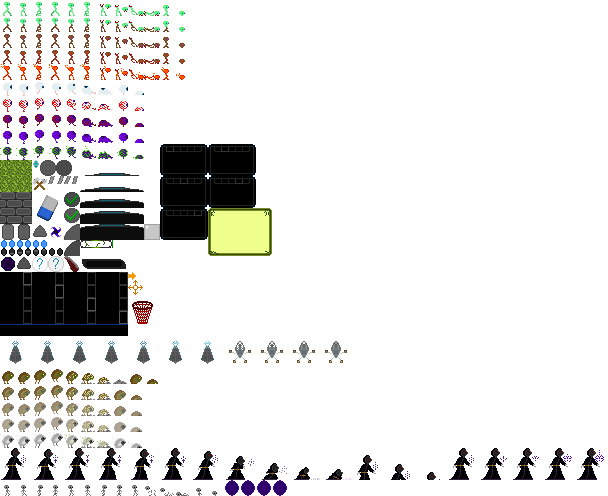
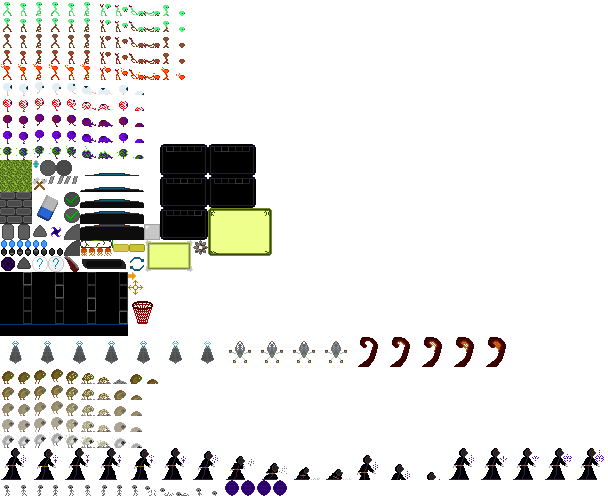
Version 1.0. User is now notified when auth fails and is provided with a button to try again.

Changed region(s): [[0.5938, 0.6653, 0.8438, 0.756], [0.125, 0.4839, 0.3438, 0.5444]]

diff --git a/app/src/main/java/com/brothergamecompany/pixelassault/toweroffence/GameObjects/UserInterface/UIAndTouchListening.java b/app/src/main/java/com/brothergamecompany/pixelassault/toweroffence/GameObjects/UserInterface/UIAndTouchListening.java
@@ -4,6 +4,7 @@ package com.brothergamecompany.pixelassault.toweroffence.GameObjects.UserInterfa
 import android.content.Context;
 
 import com.brothergamecompany.pixelassault.R;
+import com.brothergamecompany.pixelassault.framework.Game;
 import com.brothergamecompany.pixelassault.framework.Input;
 import com.brothergamecompany.pixelassault.framework.gl.Animation;
 import com.brothergamecompany.pixelassault.framework.gl.Camera2D;
@@ -14,6 +15,7 @@ import com.brothergamecompany.pixelassault.framework.impl.GLGraphics;
 import com.brothergamecompany.pixelassault.framework.math.OverlapTester;
 import com.brothergamecompany.pixelassault.framework.math.Rectangle;
 import com.brothergamecompany.pixelassault.framework.math.Vector2;
+import com.brothergamecompany.pixelassault.toweroffence.GameLauncher;
 import com.brothergamecompany.pixelassault.toweroffence.GameObjects.MapBuilder;
 import com.brothergamecompany.pixelassault.toweroffence.GameObjects.World.World;
 import com.brothergamecompany.pixelassault.toweroffence.GameObjects.World.WorldObjects.Monster;
@@ -21,11 +23,14 @@ import com.brothergamecompany.pixelassault.toweroffence.GameObjects.World.WorldR
 import com.brothergamecompany.pixelassault.toweroffence.Other.Assets.Assets;
 import com.brothergamecompany.pixelassault.toweroffence.Other.Font;
 import com.brothergamecompany.pixelassault.toweroffence.Other.Network.Account;
+import com.brothergamecompany.pixelassault.toweroffence.Other.Network.SignIn;
 import com.brothergamecompany.pixelassault.toweroffence.Other.Notifications.NotificationManager;
 
 import java.util.List;
 
 import javax.microedition.khronos.opengles.GL10;
+
+import static com.brothergamecompany.pixelassault.toweroffence.Other.Assets.Assets.font;
 
 /**
  * Created by maxgm_umv4xdu on 07.07.2017.
@@ -63,7 +68,8 @@ public class UIAndTouchListening {
     private final Rectangle shopConsumablesTab;
     private final Rectangle shopDecorationsTab;
     private final Rectangle accountStats;
-    Rectangle shopNextPageTab;
+
+    private Rectangle refreshButtonAuthFailed;
     private final MapBuilder mapBuilder;
     private static boolean spawnButtonPressed = false;
     private static boolean arrowUpButtonPressed = false;
@@ -93,6 +99,7 @@ public class UIAndTouchListening {
         shopConsumablesTab = new Rectangle(258, 279, 102, 147);
         shopDecorationsTab = new Rectangle(258, 132, 102, 147);
         mapBuilderButton = new Rectangle(1140, 0, 140, 140);
+        refreshButtonAuthFailed = new Rectangle(540, 210, 100, 100);
         monsterForButton = new Monster(80, 280, UIData.monsterLevel);
         this.mapBuilder = mapBuilder;
     }
@@ -132,21 +139,21 @@ public class UIAndTouchListening {
     private void drawAccountStatsGameState() {
         drawUsualGameState();
         batcher.drawSprite(640, 360, 640, 480, Assets.accountStatsInfo);
-        Assets.font.drawColoredText(coloredBatcher, (glGame).getResources().getString(R.string.account_stats_header), 490, 530, 0.3f, 0.3f, 0.3f, 1, 22, 28.6f);
-        Assets.font.drawColoredText(coloredBatcher, (glGame).getResources().getString(R.string.account_stats_nickname), 370, 460, 0.3f, 0.3f, 0.3f, 1, 17, 22.1f);
-        Assets.font.drawColoredText(coloredBatcher, Account.nickname, 930 - (Account.nickname.length() * (17 + Font.spaceBetweenLetters)), 460, 0.3f, 0.3f, 0.3f, 1, 17, 22.1f);
+        font.drawColoredText(coloredBatcher, (glGame).getResources().getString(R.string.account_stats_header), 490, 530, 0.3f, 0.3f, 0.3f, 1, 22, 28.6f);
+        font.drawColoredText(coloredBatcher, (glGame).getResources().getString(R.string.account_stats_nickname), 370, 460, 0.3f, 0.3f, 0.3f, 1, 17, 22.1f);
+        font.drawColoredText(coloredBatcher, Account.nickname, 930 - (Account.nickname.length() * (17 + Font.spaceBetweenLetters)), 460, 0.3f, 0.3f, 0.3f, 1, 17, 22.1f);
 
-        Assets.font.drawColoredText(coloredBatcher, (glGame).getResources().getString(R.string.account_stats_currentLevel), 370, 410, 0.3f, 0.3f, 0.3f, 1, 17, 22.1f);
-        Assets.font.drawColoredText(coloredBatcher, String.valueOf(Account.currentLevel), 930 - (String.valueOf(Account.currentLevel).length() * (17 + Font.spaceBetweenLetters)), 410, 0.3f, 0.3f, 0.3f, 1, 17, 22.1f);
+        font.drawColoredText(coloredBatcher, (glGame).getResources().getString(R.string.account_stats_currentLevel), 370, 410, 0.3f, 0.3f, 0.3f, 1, 17, 22.1f);
+        font.drawColoredText(coloredBatcher, String.valueOf(Account.currentLevel), 930 - (String.valueOf(Account.currentLevel).length() * (17 + Font.spaceBetweenLetters)), 410, 0.3f, 0.3f, 0.3f, 1, 17, 22.1f);
 
-        Assets.font.drawColoredText(coloredBatcher, (glGame).getResources().getString(R.string.account_stats_expToLvl), 370, 360, 0.3f, 0.3f, 0.3f, 1, 17, 22.1f);
-        Assets.font.drawColoredText(coloredBatcher, String.valueOf(Account.getMaxLvlExp() - Account.currentExp), 930 - (String.valueOf(Account.getMaxLvlExp() - Account.currentExp).length() * (17 + Font.spaceBetweenLetters)), 360, 0.3f, 0.3f, 0.3f, 1, 17, 22.1f);
+        font.drawColoredText(coloredBatcher, (glGame).getResources().getString(R.string.account_stats_expToLvl), 370, 360, 0.3f, 0.3f, 0.3f, 1, 17, 22.1f);
+        font.drawColoredText(coloredBatcher, String.valueOf(Account.getMaxLvlExp() - Account.currentExp), 930 - (String.valueOf(Account.getMaxLvlExp() - Account.currentExp).length() * (17 + Font.spaceBetweenLetters)), 360, 0.3f, 0.3f, 0.3f, 1, 17, 22.1f);
 
-        Assets.font.drawColoredText(coloredBatcher, (glGame).getResources().getString(R.string.account_stats_portalPower), 370, 310, 0.3f, 0.3f, 0.3f, 1, 17, 22.1f);
-        Assets.font.drawColoredText(coloredBatcher, String.valueOf(Account.spawnPortalPower), 930 - (String.valueOf(Account.spawnPortalPower).length() * (17 + Font.spaceBetweenLetters)), 310, 0.3f, 0.3f, 0.3f, 1, 17, 22.1f);
+        font.drawColoredText(coloredBatcher, (glGame).getResources().getString(R.string.account_stats_portalPower), 370, 310, 0.3f, 0.3f, 0.3f, 1, 17, 22.1f);
+        font.drawColoredText(coloredBatcher, String.valueOf(Account.spawnPortalPower), 930 - (String.valueOf(Account.spawnPortalPower).length() * (17 + Font.spaceBetweenLetters)), 310, 0.3f, 0.3f, 0.3f, 1, 17, 22.1f);
 
-        Assets.font.drawColoredText(coloredBatcher, (glGame).getResources().getString(R.string.account_stats_monstersKilled), 370, 260, 0.3f, 0.3f, 0.3f, 1, 17, 22.1f);
-        Assets.font.drawColoredText(coloredBatcher, String.valueOf(Account.totalMonstersKilled), 930 - (String.valueOf(Account.totalMonstersKilled).length() * (17 + Font.spaceBetweenLetters)), 260, 0.3f, 0.3f, 0.3f, 1, 17, 22.1f);
+        font.drawColoredText(coloredBatcher, (glGame).getResources().getString(R.string.account_stats_monstersKilled), 370, 260, 0.3f, 0.3f, 0.3f, 1, 17, 22.1f);
+        font.drawColoredText(coloredBatcher, String.valueOf(Account.totalMonstersKilled), 930 - (String.valueOf(Account.totalMonstersKilled).length() * (17 + Font.spaceBetweenLetters)), 260, 0.3f, 0.3f, 0.3f, 1, 17, 22.1f);
     }
 
     private void drawMapBuilderGameState() {
@@ -173,7 +180,7 @@ public class UIAndTouchListening {
 
     private void drawUsualGameState() {
         batcher.drawSprite(70, 520, 70, 70, arrowUpButtonPressed ? Assets.arrowUpPressed : Assets.arrowUp);
-        Assets.font.drawText(batcher, UIData.monsterLevel + " LVL", 30, 465, 20, 26);
+        font.drawText(batcher, UIData.monsterLevel + " LVL", 30, 465, 20, 26);
         batcher.drawSprite(70, 410, 70, -70, arrowDownButtonPressed ? Assets.arrowUpPressed : Assets.arrowUp);
         batcher.drawSprite(70, 70, -140, 140, shopButtonPressed ? Assets.triangleButtonPressed : Assets.triangleButton);
         batcher.drawSprite(1210, 70, 140, 140, mapBuilderButtonPressed ? Assets.triangleButtonPressed : Assets.triangleButton);
@@ -183,9 +190,19 @@ public class UIAndTouchListening {
         batcher.drawSprite(1210, 650, 75, 75, Assets.helpButton);
         batcher.drawSprite(640, 650, 400, 130, Assets.expBarBackground);
         float percentageOfExpBarFilled = (float) Account.currentExp / (float)Account.getMaxLvlExp();
-        float widthOfExpBarFilling = 600 * percentageOfExpBarFilled;
+        float widthOfExpBarFilling = 300 * percentageOfExpBarFilled;
         batcher.drawSprite(490 + widthOfExpBarFilling / 2, 650, widthOfExpBarFilling, 50, Assets.expBarFilling);
         batcher.drawSprite(640, 650, 320, 50, Assets.expBarFrame);
+        if (GameLauncher.signIn.notifyUser) {
+            batcher.drawSprite(640, 360, 440, 260, Assets.horizontalRectanglePane);
+            if (!GameLauncher.signIn.signInSuccessful) {
+                Font.spaceBetweenLetters = 3;
+                                                                                 //middleOfScreen - glyphWidth + spaceBetweenLetters * StringLength / 2 = text centered
+                font.drawColoredText(coloredBatcher, glGame.getString(R.string.authentication), 640 - (((15 + 3) * 14)/2), 420, 0.3f, 0.3f, 0.3f, 1, 15, 19.5f);
+                font.drawColoredText(coloredBatcher, glGame.getString(R.string.failed), 640 - (((15 + 3) * 6)/2), 390, 0.3f, 0.3f, 0.3f, 1, 15, 19.5f);
+                batcher.drawSprite(640, 310, 50, 50, Assets.refresh);
+            }
+        }
     }
 
     public void update(float deltaTime) {
@@ -235,6 +252,15 @@ public class UIAndTouchListening {
             guiCam.touchToWorld(touchPoint);
             WorldRenderer.worldCam.touchToWorld(touchPoint2);
 
+            if (GameLauncher.signIn.notifyUser) {
+                if (OverlapTester.pointInRectangle(refreshButtonAuthFailed, touchPoint)){
+                    if (touchEvent.type == Input.TouchEvent.TOUCH_UP) {
+                        //Assets.playSound(Assets.clickSound);
+                        GameLauncher.signIn.notifyUser = false;
+                        GameLauncher.signIn.signIn();
+                    }
+                }
+            }
             if (OverlapTester.pointInRectangle(World.spawnerPortal.bounds, touchPoint2)) {
                 if (touchEvent.type == Input.TouchEvent.TOUCH_UP) {
                     //Assets.playSound(Assets.portalSound);

diff --git a/app/src/main/java/com/brothergamecompany/pixelassault/toweroffence/Other/Network/SignIn.java b/app/src/main/java/com/brothergamecompany/pixelassault/toweroffence/Other/Network/SignIn.java
@@ -41,6 +41,8 @@ public class SignIn implements GoogleApiClient.ConnectionCallbacks, GoogleApiCli
     private static boolean mResolvingError = false;
     private FirebaseAuth mAuth;
     private FirebaseUser currentUser;
+    public boolean signInSuccessful = false;
+    public boolean notifyUser = false;
 
     private static final String STATE_RESOLVING_ERROR = "resolving_error";
     private static final String DIALOG_ERROR = "dialog_error";
@@ -77,7 +79,7 @@ public class SignIn implements GoogleApiClient.ConnectionCallbacks, GoogleApiCli
         signIn();
     }
 
-    private void signIn() {
+    public void signIn() {
         Intent signInIntent = Auth.GoogleSignInApi.getSignInIntent(mGoogleApiClient);
         context.startActivityForResult(signInIntent, RC_SIGN_IN);
     }
@@ -126,7 +128,8 @@ public class SignIn implements GoogleApiClient.ConnectionCallbacks, GoogleApiCli
             } else {
                 // Google Sign In failed, update UI appropriately
                 // ...
-                Toast.makeText(context, "SIGN IN FAIL1", Toast.LENGTH_SHORT).show();
+                signInSuccessful = false;
+                notifyUser = true;
             }
         }
     }
@@ -140,10 +143,7 @@ public class SignIn implements GoogleApiClient.ConnectionCallbacks, GoogleApiCli
                         if (task.isSuccessful()) {
                             // Sign in success, update UI with the signed-in user's information
                             currentUser = mAuth.getCurrentUser();
-                            Toast.makeText(context, "SIGN IN SUCCESS", Toast.LENGTH_SHORT).show();
-                        } else {
-                            // If sign in fails, display a message to the user.
-                            Toast.makeText(context, "SIGN IN FAIL2", Toast.LENGTH_SHORT).show();
+                            signInSuccessful = true;
                         }
                     }
                 });

diff --git a/app/src/main/java/com/brothergamecompany/pixelassault/toweroffence/Other/Assets/Assets.java b/app/src/main/java/com/brothergamecompany/pixelassault/toweroffence/Other/Assets/Assets.java
@@ -10,6 +10,7 @@ import com.brothergamecompany.pixelassault.toweroffence.Other.Font;
 
 import java.util.concurrent.atomic.AtomicReference;
 
+import static android.R.attr.y;
 import static android.R.style.Animation;
 
 /**
@@ -114,14 +115,20 @@ public class Assets {
     public static TextureRegion roundButton;
     public static TextureRegion roundButtonPressed;
     public static TextureRegion expBarBackground;
+    public static TextureRegion horizontalRectanglePane;
+    public static TextureRegion yellowRectangleButton;
+    public static TextureRegion refresh;
     public static void load(GLGame game) {
         objects = new Texture(game, "objectatlas.png");
         AssetsLoader.loadMonsters();
         AssetsLoader.loadTowers();
+        refresh = new TextureRegion(objects, 128, 256, 16, 16);
         accountStatsInfo = new TextureRegion(objects, 208, 208, 64, 48);
         roundButton = new TextureRegion(objects, 40, 160, 16, 16);
         roundButtonPressed = new TextureRegion(objects, 56, 160, 16, 16);
-        expBarFilling = new TextureRegion(objects, 112, 240, 2, 8);
+        horizontalRectanglePane = new TextureRegion(objects, 145, 240, 48, 32);
+        expBarFilling = new TextureRegion(objects, 112, 240, 1, 8);
+        yellowRectangleButton = new TextureRegion(objects, 113, 240, 16, 16);
         expBarFrame = new TextureRegion(objects, 80, 240, 32, 8);
         expBarBackground = new TextureRegion(objects, 80, 256, 48, 16);
         helpButton = new TextureRegion(objects, 32, 256, 16, 16);

diff --git a/app/src/main/java/com/brothergamecompany/pixelassault/toweroffence/Other/Font.java b/app/src/main/java/com/brothergamecompany/pixelassault/toweroffence/Other/Font.java
@@ -13,8 +13,9 @@ public class Font {
     public final Texture texture;
     private final int glyphWidth;
     private final int glyphHeight;
+    public static final float DEFAULT_SPACE_BETWEEN_LETTERS = 5;
     public final TextureRegion[] glyphs = new TextureRegion[96];
-    public static final float spaceBetweenLetters = 5;
+    public static float spaceBetweenLetters = DEFAULT_SPACE_BETWEEN_LETTERS;
 
     public Font(Texture texture,
                 int offsetX, int offSetY,

diff --git a/app/src/main/java/com/brothergamecompany/pixelassault/toweroffence/GameLauncher.java b/app/src/main/java/com/brothergamecompany/pixelassault/toweroffence/GameLauncher.java
@@ -55,7 +55,7 @@ public class GameLauncher extends GLGame{
     private boolean firstTimeCreate = true;
     private ScaleGestureDetector mScaleDetector;
     private GestureDetectorCompat mGestureDetector;
-    private SignIn signIn;
+    public static SignIn signIn;
 
     @Override
     public Screen getStartScreen() {
